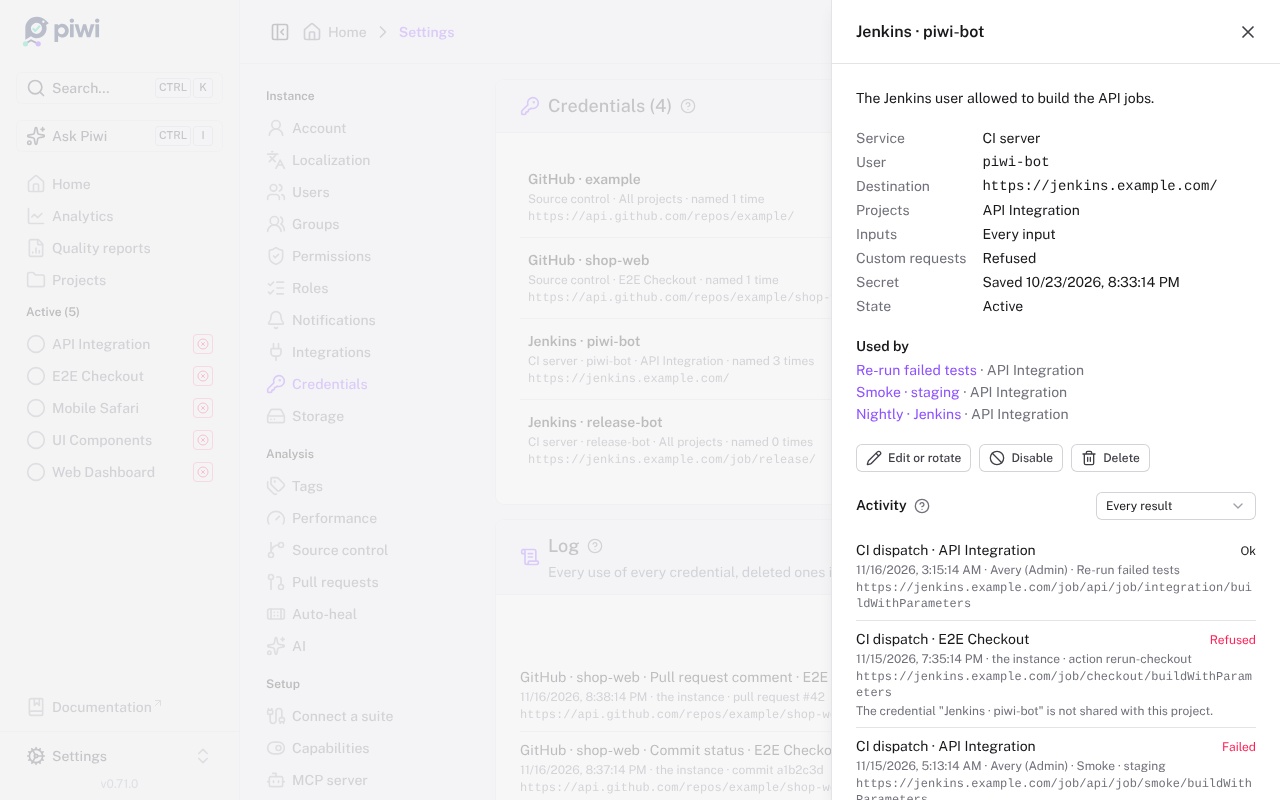
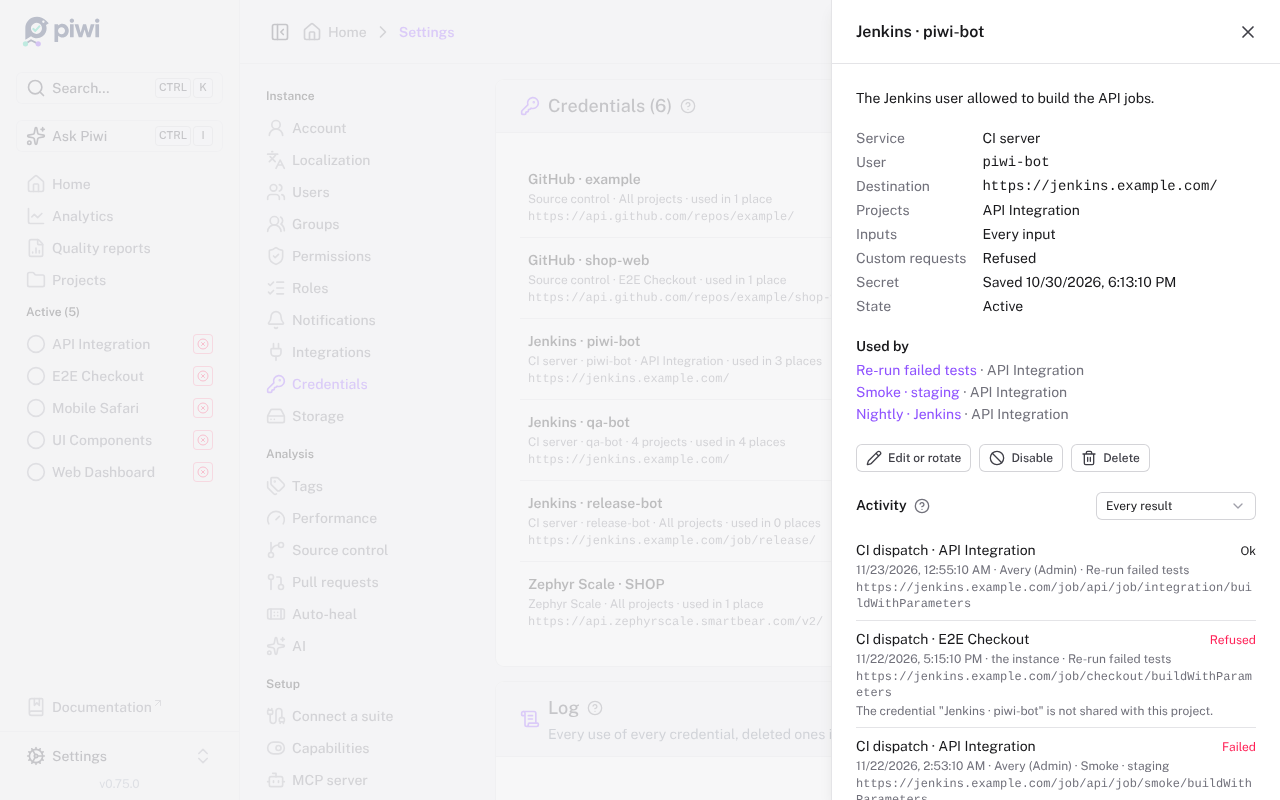
test(demo): follow every project's seeded CI action in the scenes, specs and docs
With a CI re-run available on every demo project, a server loaded with the seed
proposes Re-run in CI for its crash and navigation failures, #682 among them.
The spec and the desktop scene about the Reproduce section now open #705, which
still reproduces locally with a CI re-run available. The CI credential scene no
longer switches E2E Checkout's CI actions on, since they are on, and the
credentials docs image is recaptured with all six seeded credentials. The seed's
comments say what its actions are the default for.

Claude-Session: https://claude.ai/code/session_01ADXAbejCUWpzrrhJ3o8MGA

diff --git a/apps/application/tests/test-run-case-page.spec.ts b/apps/application/tests/test-run-case-page.spec.ts
@@ -473,7 +473,7 @@ async function nextChangeRows(page: import('@playwright/test').Page): Promise<st
 /**
  * The story line, the line under the headline and the next step read from the
  * deterministic demo seed: #37 chains the blocked-by-pending-request story and
- * proposes the diagnosed patch, #587 replaces a locator, #682 reproduces, #768
+ * proposes the diagnosed patch, #587 replaces a locator, #705 reproduces, #768
  * and #21 passed on retry and lead with their failed attempt, #748 never ran. These
  * run only when the seeded cases are present (a demo-seeded server). A bare test
  * DB can still have an execution #37 once other specs have streamed enough cases,
@@ -764,9 +764,9 @@ test.describe('Situation block on seeded cases', () => {
     expect(healingFetches).toEqual([]);
   });
 
-  test('#682 proposes reproducing locally and opens the Reproduce section, run line first', async ({ page }) => {
-    test.skip(!(await (await page.request.get('/api/test-run-cases/682')).ok()), 'no #682');
-    await page.goto('/test-run-cases/682');
+  test('#705 proposes reproducing locally and opens the Reproduce section, run line first', async ({ page }) => {
+    test.skip(!(await (await page.request.get('/api/test-run-cases/705')).ok()), 'no #705');
+    await page.goto('/test-run-cases/705');
     await waitForHydration(page);
     const next = page.locator('[data-shot="next-step"]');
     await expect(next).toContainText('Reproduce locally');

diff --git a/apps/docs/operate/credentials.md b/apps/docs/operate/credentials.md
@@ -11,7 +11,7 @@ it is needed: a CI server action, [source control](/guide/source-control), an AI
 connection or a Slack channel. A rotation is one change, and every use is logged.
 
 <figure>
-  <img src="/screenshots/credentials-settings.png" alt="Settings → Credentials: two Jenkins and two GitHub credentials, a Jenkins one open in a panel with its user, destination, projects, the three CI actions that name it and its log of dispatches and checks">
+  <img src="/screenshots/credentials-settings.png" alt="Settings → Credentials: three Jenkins, two GitHub and a Zephyr Scale credential, a Jenkins one open in a panel with its user, destination, projects, the three CI actions that name it and its log of dispatches and checks">
   <figcaption>Settings → Credentials: a credential's panel, with the CI actions that name it and its log.</figcaption>
 </figure>
 
